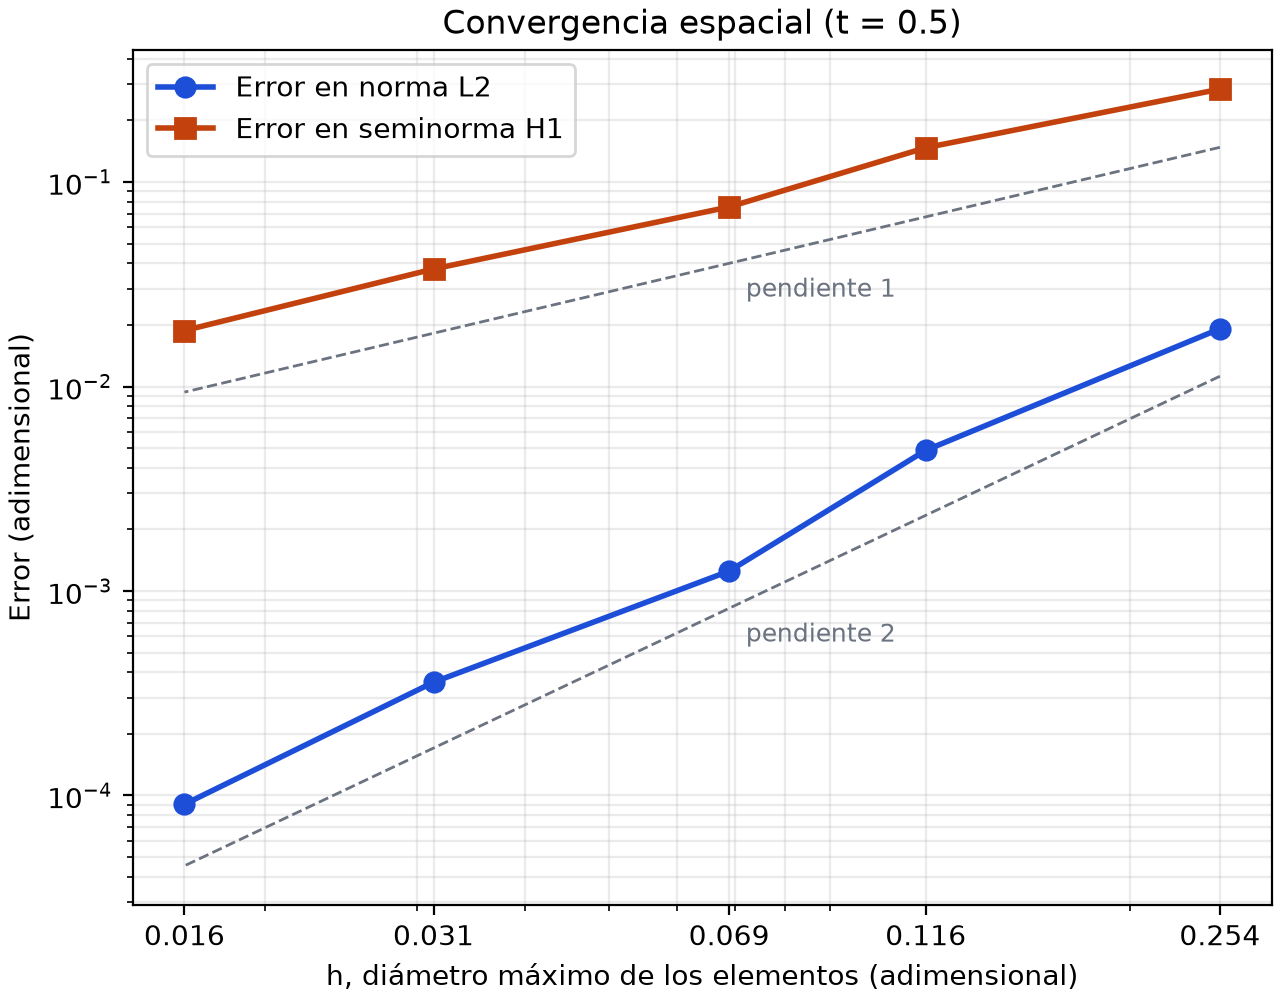
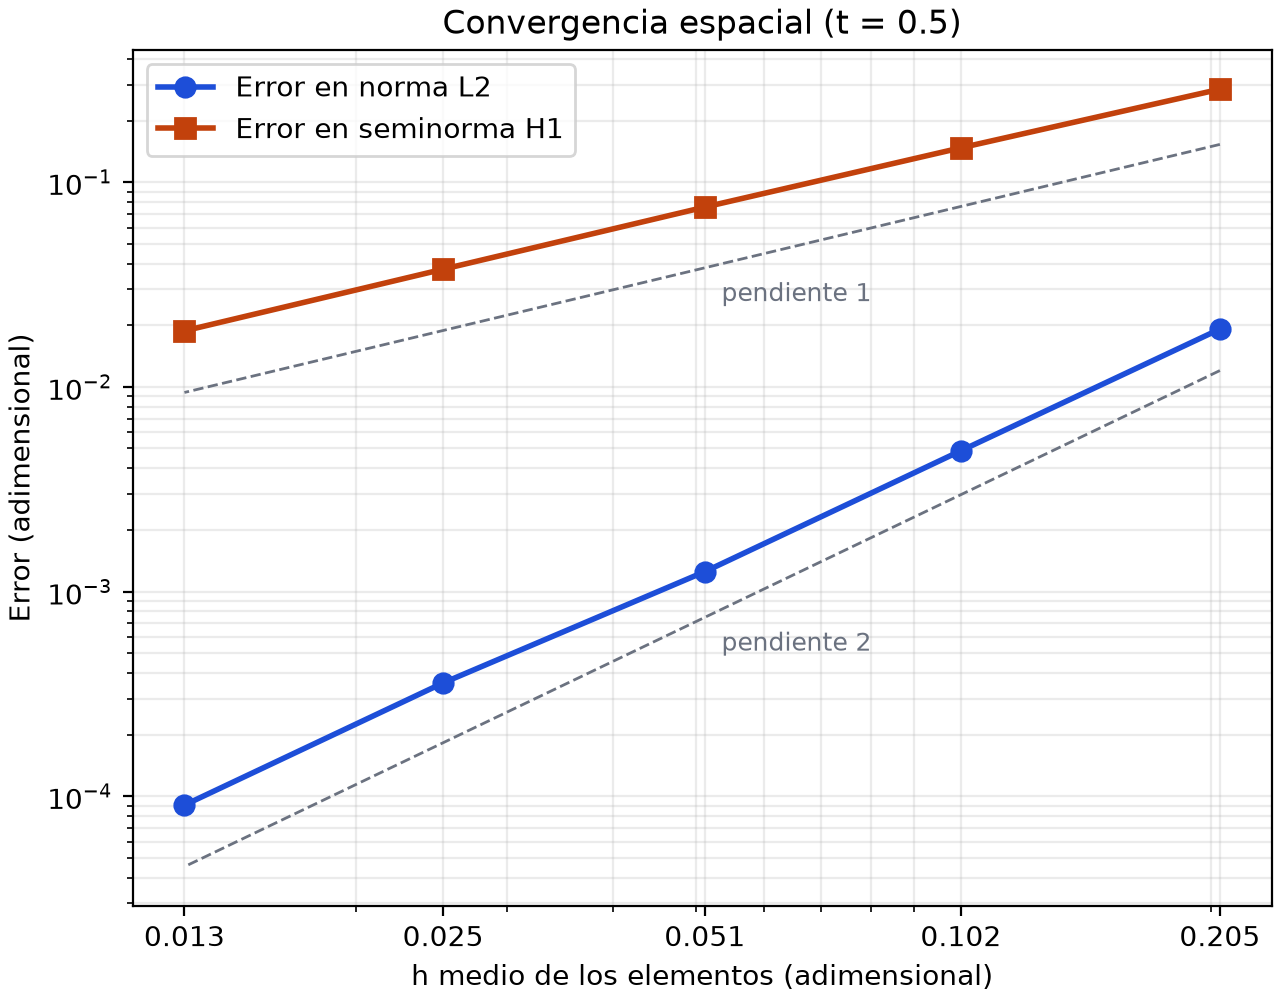
Convergencia espacial de la MMS graficada contra h medio

diff --git a/scripts/03_mms.py b/scripts/03_mms.py
@@ -181,14 +181,16 @@ def convergencia_espacial(reportar):
                   f["L2"], tL2[k], tL2m[k], f["H1"], tH1[k], tH1m[k]] for k, f in enumerate(filas)])
 
     fig, ax = plt.subplots(figsize=(6.4, 5.0), constrained_layout=True)
-    ax.loglog(col["h_max"], col["L2"], "o-", color=COLOR[1.0], linewidth=2, markersize=7,
+    # La figura usa h medio (menos sensible a un solo elemento extremo); la tabla y el CSV
+    # conservan las tasas con h máximo y con h medio.
+    ax.loglog(col["h_medio"], col["L2"], "o-", color=COLOR[1.0], linewidth=2, markersize=7,
               label="Error en norma L2")
-    ax.loglog(col["h_max"], col["H1"], "s-", color=COLOR[0.5], linewidth=2, markersize=7,
+    ax.loglog(col["h_medio"], col["H1"], "s-", color=COLOR[0.5], linewidth=2, markersize=7,
               label="Error en seminorma H1")
-    linea_referencia(ax, col["h_max"], col["L2"][-1] * 0.5, 2, "pendiente 2")
-    linea_referencia(ax, col["h_max"], col["H1"][-1] * 0.5, 1, "pendiente 1")
-    marcas_eje_x(ax, col["h_max"], "{:.3f}")
-    ax.set_xlabel("h, diámetro máximo de los elementos (adimensional)")
+    linea_referencia(ax, col["h_medio"], col["L2"][-1] * 0.5, 2, "pendiente 2")
+    linea_referencia(ax, col["h_medio"], col["H1"][-1] * 0.5, 1, "pendiente 1")
+    marcas_eje_x(ax, col["h_medio"], "{:.3f}")
+    ax.set_xlabel("h medio de los elementos (adimensional)")
     ax.set_ylabel("Error (adimensional)")
     ax.set_title(f"Convergencia espacial (t = {T_esp:g})")
     ax.grid(True, which="both", alpha=0.25)
